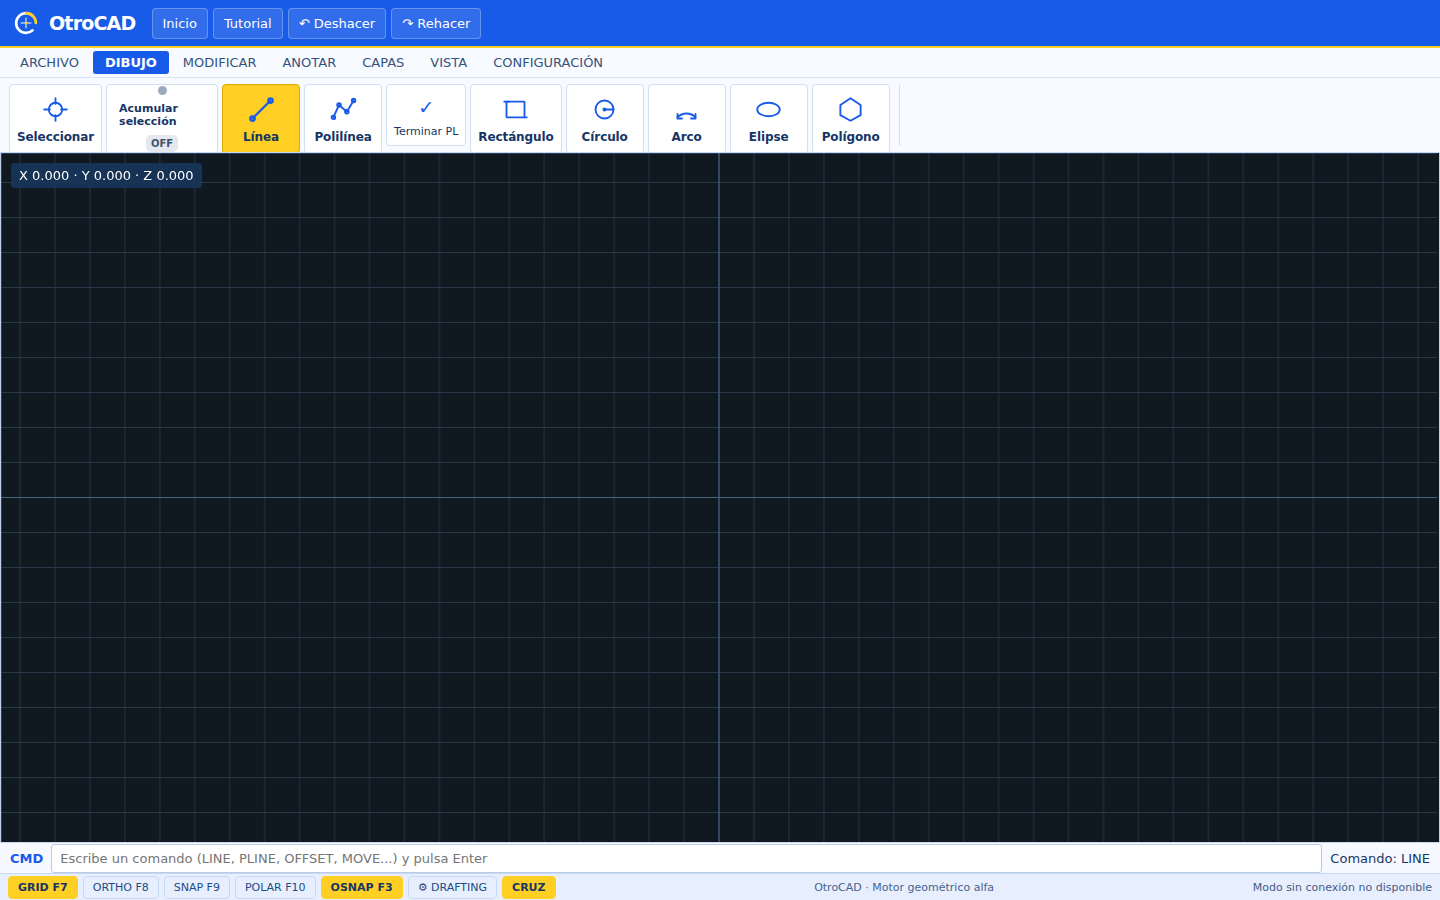
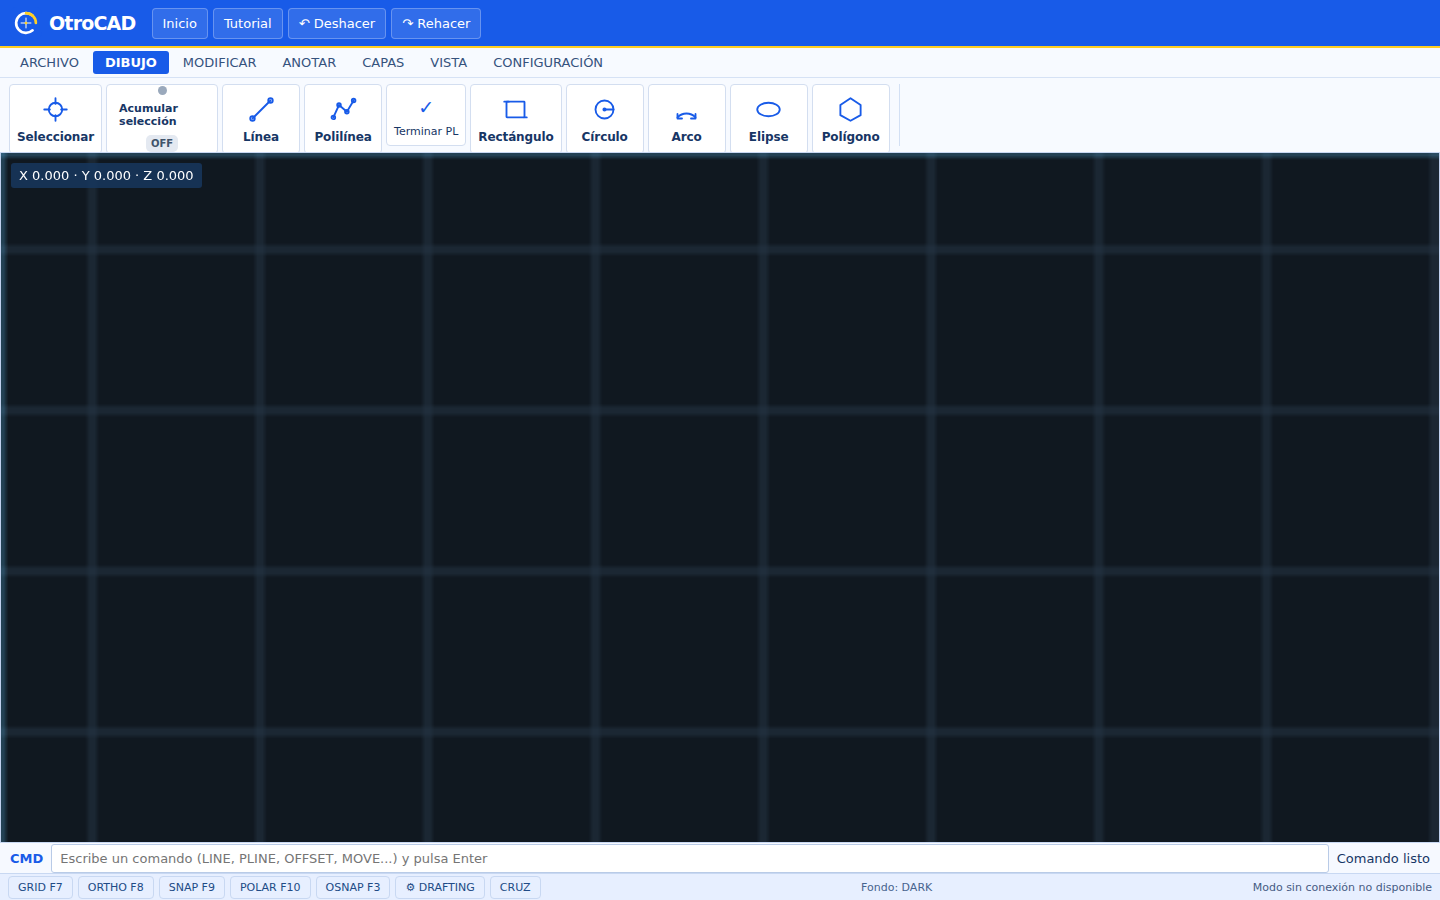
deploy: 45bcfa43d3ae5d351a2cea21db750d4c6ed4a11f

diff --git a/editor/index.html b/editor/index.html
@@ -102,7 +102,7 @@ button:focus-visible,input:focus-visible,select:focus-visible{outline:2px solid 
 #otrocad-context-menu .cad-menu-item.primary{background:#344b66;color:#ffda55;font-weight:700}
 @media(max-width:760px){#filebar button[onclick*="../index.html"]{display:none!important}}
 @media(display-mode:standalone){#filebar button[onclick*="../index.html"]{display:none!important}}
- .toolgroup button .ico svg{width:23px;height:23px;stroke-width:1.85;filter:drop-shadow(0 1px 1px #18375a18)}.toolgroup button{border-radius:7px;transition:background .16s,border-color .16s,transform .16s}.toolgroup button:hover{transform:translateY(-1px)}.toolgroup button .ico{display:grid;place-items:center;width:27px;height:27px;border-radius:7px;background:#eaf2ff}.cad-option{align-self:center;display:flex;flex-direction:column;gap:4px;font-size:10px;font-weight:700;color:#46658c}.cad-option select,.cad-option input{padding:6px;border:1px solid #b9cbe7;border-radius:6px;background:white;color:#173665} </style></head><body>
+</style></head><body>
 <header><span id="brand"><svg class="brandmark" viewBox="0 0 512 512" aria-hidden="true"><rect width="512" height="512" rx="104" fill="#185BE8"/><circle cx="256" cy="256" r="158" fill="none" stroke="#FFFFFF" stroke-width="42" stroke-dasharray="720 275" stroke-linecap="round" transform="rotate(48 256 256)"/><path d="M256 98a158 158 0 0 1 158 158" fill="none" stroke="#FFCF23" stroke-width="42" stroke-linecap="round"/><path d="M256 177v158M177 256h158" stroke="#FFFFFF" stroke-width="16" stroke-linecap="round"/><circle cx="256" cy="256" r="22" fill="#FFCF23"/></svg><span><span class="o">O</span><span class="cad">troCAD</span></span></span><div id="filebar"><button onclick="location.href='../index.html'">Inicio</button><button onclick="location.href='../tutorial/'">Tutorial</button><button id="undo" title="Deshacer · Ctrl+Z">↶ Deshacer</button><button id="redo" title="Rehacer · Ctrl+Y">↷ Rehacer</button></div></header>
 <section id="ribbon"><nav id="tabs" aria-label="Herramientas CAD"><button data-tab="file">ARCHIVO</button><button class="active" data-tab="draw" aria-selected="true">DIBUJO</button><button data-tab="modify">MODIFICAR</button><button data-tab="annotate">ANOTAR</button><button data-tab="layers">CAPAS</button><button data-tab="view">VISTA</button><button data-tab="settings">CONFIGURACIÓN</button></nav><div id="groups">
 <div class="toolgroup" data-panel="file" hidden><span class="group-title">PROYECTO</span>
@@ -120,9 +120,9 @@ button:focus-visible,input:focus-visible,select:focus-visible{outline:2px solid 
 </div>
 <div class="toolgroup" data-panel="draw"><button data-tool="select"><span class="ico"><svg viewBox="0 0 24 24" fill="none" stroke="currentColor" stroke-width="1.65" stroke-linecap="round" stroke-linejoin="round" aria-hidden="true"><circle cx="12" cy="12" r="6"/><path d="M12 2v5m0 10v5M2 12h5m10 0h5"/></svg></span>Seleccionar</button><button id="multiSelectToggle" aria-pressed="false" title="Mantener selección al elegir más objetos; el arrastre de ventana selecciona varios sin activar esta opción"><span class="multi-dot"></span><span class="multi-label">Acumular selección</span><span class="multi-state">OFF</span></button><button data-tool="line"><span class="ico"><svg viewBox="0 0 24 24" fill="none" stroke="currentColor" stroke-width="1.65" stroke-linecap="round" stroke-linejoin="round" aria-hidden="true"><path d="M4 20 20 4"/><circle cx="4" cy="20" r="2"/><circle cx="20" cy="4" r="2"/></svg></span>Línea</button><button data-tool="poly"><span class="ico"><svg viewBox="0 0 24 24" fill="none" stroke="currentColor" stroke-width="1.65" stroke-linecap="round" stroke-linejoin="round" aria-hidden="true"><path d="m3 19 5-11 7 6 6-10"/><circle cx="3" cy="19" r="1.6"/><circle cx="8" cy="8" r="1.6"/><circle cx="15" cy="14" r="1.6"/><circle cx="21" cy="4" r="1.6"/></svg></span>Polilínea</button><button id="finish-poly"><span class="ico">✓</span>Terminar PL</button><button data-tool="rect"><span class="ico"><svg viewBox="0 0 24 24" fill="none" stroke="currentColor" stroke-width="1.65" stroke-linecap="round" stroke-linejoin="round" aria-hidden="true"><rect x="4" y="5" width="16" height="14" rx="0.5"/><path d="M2 5h4m14 14h2"/></svg></span>Rectángulo</button><button data-tool="circle"><span class="ico"><svg viewBox="0 0 24 24" fill="none" stroke="currentColor" stroke-width="1.65" stroke-linecap="round" stroke-linejoin="round" aria-hidden="true"><circle cx="12" cy="12" r="8"/><path d="M12 12h8"/><circle cx="12" cy="12" r="1"/></svg></span>Círculo</button><button data-tool="arc"><span class="ico"><svg viewBox="0 0 24 24" fill="none" stroke="currentColor" stroke-width="1.65" stroke-linecap="round" stroke-linejoin="round" aria-hidden="true"><path d="M4 19a11 11 0 0 1 16 0"/><path d="M4 16v4h4m8 0h4v-4"/></svg></span>Arco</button><button data-tool="ellipse"><span class="ico"><svg viewBox="0 0 24 24" fill="none" stroke="currentColor" stroke-width="1.65" stroke-linecap="round" stroke-linejoin="round" aria-hidden="true"><ellipse cx="12" cy="12" rx="10" ry="6"/></svg></span>Elipse</button><button data-tool="polygon"><span class="ico"><svg viewBox="0 0 24 24" fill="none" stroke="currentColor" stroke-width="1.65" stroke-linecap="round" stroke-linejoin="round" aria-hidden="true"><path d="m12 2 9 6v9l-9 5-9-5V8z"/></svg></span>Polígono</button></div>
 <div class="toolgroup" data-panel="modify" hidden><button data-tool="move"><span class="ico"><svg viewBox="0 0 24 24" fill="none" stroke="currentColor" stroke-width="1.65" stroke-linecap="round" stroke-linejoin="round" aria-hidden="true"><path d="M12 2v20M2 12h20m-10-10-3 3m3-3 3 3m-3 17-3-3m3 3 3-3M2 12l3-3m-3 3 3 3m17-3-3-3m3 3-3 3"/></svg></span>Mover</button><button data-tool="copy"><span class="ico"><svg viewBox="0 0 24 24" fill="none" stroke="currentColor" stroke-width="1.65" stroke-linecap="round" stroke-linejoin="round" aria-hidden="true"><rect x="8" y="8" width="12" height="12" rx="1"/><path d="M16 8V4H4v12h4"/></svg></span>Copiar</button><button data-tool="offset"><span class="ico"><svg viewBox="0 0 24 24" fill="none" stroke="currentColor" stroke-width="1.65" stroke-linecap="round" stroke-linejoin="round" aria-hidden="true"><path d="m4 18 11-11m-5 14L21 10"/><path d="M16 4h5v5"/></svg></span>Offset</button><button data-tool="rotate"><span class="ico"><svg viewBox="0 0 24 24" fill="none" stroke="currentColor" stroke-width="1.65" stroke-linecap="round" stroke-linejoin="round" aria-hidden="true"><path d="M4 10a8 8 0 1 1 1 7"/><path d="M4 3v7h7"/></svg></span>Rotar</button><button data-tool="mirror"><span class="ico"><svg viewBox="0 0 24 24" fill="none" stroke="currentColor" stroke-width="1.65" stroke-linecap="round" stroke-linejoin="round" aria-hidden="true"><path d="M12 2v20" stroke-dasharray="2 2"/><path d="m9 6-6 6 6 6m6-12 6 6-6 6"/></svg></span>Simetría</button><button data-tool="scale"><span class="ico"><svg viewBox="0 0 24 24" fill="none" stroke="currentColor" stroke-width="1.65" stroke-linecap="round" stroke-linejoin="round" aria-hidden="true"><path d="M4 20 20 4m-9 0h9v9"/><rect x="3" y="13" width="8" height="8"/></svg></span>Escalar</button><button data-tool="trim"><span class="ico"><svg viewBox="0 0 24 24" fill="none" stroke="currentColor" stroke-width="1.65" stroke-linecap="round" stroke-linejoin="round" aria-hidden="true"><path d="M4 5 20 19M4 19 20 5"/><circle cx="8" cy="9" r="2"/><circle cx="16" cy="9" r="2"/></svg></span>Recortar</button><button data-tool="extend"><span class="ico"><svg viewBox="0 0 24 24" fill="none" stroke="currentColor" stroke-width="1.65" stroke-linecap="round" stroke-linejoin="round" aria-hidden="true"><path d="M3 19 15 7m-3 0h9M15 2v10" stroke-dasharray="3 2"/></svg></span>Alargar</button><button data-tool="fillet"><span class="ico"><svg viewBox="0 0 24 24" fill="none" stroke="currentColor" stroke-width="1.65" stroke-linecap="round" stroke-linejoin="round" aria-hidden="true"><path d="M4 20V10a6 6 0 0 1 6-6h10"/></svg></span>Empalme</button><button data-tool="explode"><span class="ico"><svg viewBox="0 0 24 24" fill="none" stroke="currentColor" stroke-width="1.65" stroke-linecap="round" stroke-linejoin="round" aria-hidden="true"><path d="m12 2 2 7 7-2-5 5 5 5-7-2-2 7-2-7-7 2 5-5-5-5 7 2z"/></svg></span>Explotar</button><button id="erase" title="Eliminar objetos seleccionados"><span class="ico"><svg viewBox="0 0 24 24" fill="none" stroke="currentColor" stroke-width="1.8" stroke-linecap="round" stroke-linejoin="round"><path d="M3 6h18M8 6V4h8v2m3 0-1 14H6L5 6m4 4v6m6-6v6"/></svg></span>Eliminar</button><button id="propertiesBtn" title="Mostrar propiedades"><span class="ico"><svg viewBox="0 0 24 24" fill="none" stroke="currentColor" stroke-width="1.8" stroke-linecap="round" stroke-linejoin="round"><path d="M4 6h16M4 12h16M4 18h16"/><circle cx="9" cy="6" r="2" fill="#fff"/><circle cx="15" cy="12" r="2" fill="#fff"/><circle cx="8" cy="18" r="2" fill="#fff"/></svg></span>Propiedades</button></div>
-<div class="toolgroup" data-panel="annotate" hidden><button data-tool="dim"><span class="ico"><svg viewBox="0 0 24 24" fill="none" stroke="currentColor" stroke-width="1.65" stroke-linecap="round" stroke-linejoin="round" aria-hidden="true"><path d="M3 5v14m18-14v14M5 12h14m-14 0 3-3m-3 3 3 3m11-3-3-3m3 3-3 3"/></svg></span>Cota lineal</button><button data-tool="text"><span class="ico"><svg viewBox="0 0 24 24" fill="none" stroke="currentColor" stroke-width="1.65" stroke-linecap="round" stroke-linejoin="round" aria-hidden="true"><path d="M4 6V4h16v2M12 4v16m-5 0h10"/></svg></span>Texto</button><button data-tool="hatch"><span class="ico"><svg viewBox="0 0 24 24" fill="none" stroke="currentColor" stroke-width="1.65" stroke-linecap="round" stroke-linejoin="round" aria-hidden="true"><rect x="3" y="3" width="18" height="18"/><path d="m3 12 9-9m-9 17L20 3M10 21 21 10"/></svg></span>Hatch</button><button data-tool="dimaligned"><span class="ico">↗</span>Cota alineada</button><label class="cad-option">HATCH <select id="hatchPattern"><option value="ANSI31">ANSI31</option><option value="CROSS">Cross</option><option value="GRID">Grid</option><option value="SOLID">Solid</option></select></label><label class="cad-option">Paso <input id="hatchSpacing" type="number" value="10" min="5" max="60" style="width:55px"></label><button data-tool="leader"><span class="ico"><svg viewBox="0 0 24 24" fill="none" stroke="currentColor" stroke-width="1.65" stroke-linecap="round" stroke-linejoin="round" aria-hidden="true"><path d="m3 21 7-7h10V4"/><path d="m3 21 2-6 4 4z"/></svg></span>Directriz</button></div>
+<div class="toolgroup" data-panel="annotate" hidden><button data-tool="dim"><span class="ico"><svg viewBox="0 0 24 24" fill="none" stroke="currentColor" stroke-width="1.65" stroke-linecap="round" stroke-linejoin="round" aria-hidden="true"><path d="M3 5v14m18-14v14M5 12h14m-14 0 3-3m-3 3 3 3m11-3-3-3m3 3-3 3"/></svg></span>Cota lineal</button><button data-tool="text"><span class="ico"><svg viewBox="0 0 24 24" fill="none" stroke="currentColor" stroke-width="1.65" stroke-linecap="round" stroke-linejoin="round" aria-hidden="true"><path d="M4 6V4h16v2M12 4v16m-5 0h10"/></svg></span>Texto</button><button data-tool="hatch"><span class="ico"><svg viewBox="0 0 24 24" fill="none" stroke="currentColor" stroke-width="1.65" stroke-linecap="round" stroke-linejoin="round" aria-hidden="true"><rect x="3" y="3" width="18" height="18"/><path d="m3 12 9-9m-9 17L20 3M10 21 21 10"/></svg></span>Hatch</button><button data-tool="leader"><span class="ico"><svg viewBox="0 0 24 24" fill="none" stroke="currentColor" stroke-width="1.65" stroke-linecap="round" stroke-linejoin="round" aria-hidden="true"><path d="m3 21 7-7h10V4"/><path d="m3 21 2-6 4 4z"/></svg></span>Directriz</button></div>
 <div class="toolgroup" data-panel="layers" hidden><label style="align-self:center;color:#a9bfd2">CAPA</label><select id="layer"><option>General</option><option>Muros</option><option>Cotas</option><option>Detalles</option><option>Topografía</option><option>Vialidad</option></select><button id="newLayer">+ Capa</button><button id="layerColor">Color capa</button><button id="layerVisibility">Ocultar capa</button><button id="layerLock">Bloquear capa</button><label style="align-self:center;color:#a9bfd2">COLOR</label><input id="drawColor" type="color" value="#dce8f5"><label style="align-self:center;color:#a9bfd2">GROSOR</label><select id="lineweight"><option value="0.13">0.13 mm</option><option value="0.18">0.18 mm</option><option value="0.25" selected>0.25 mm</option><option value="0.35">0.35 mm</option><option value="0.50">0.50 mm</option><option value="0.70">0.70 mm</option><option value="1.00">1.00 mm</option></select><label style="align-self:center;color:#a9bfd2">TIPO</label><select id="linetype"><option value="CONTINUOUS">Continua</option><option value="DASHED">Discontinua</option></select></div>
-<div class="toolgroup" data-panel="view" hidden><label class="cad-option">FONDO <select id="canvasTheme"><option value="black">Black</option><option value="dark">Dark</option><option value="graphite">Graphite</option><option value="slate">Slate</option><option value="bluegray">Blue Gray</option></select></label><button id="zoomIn">＋ Zoom</button><button id="zoomOut">－ Zoom</button><button id="fit">Extensión</button><button data-tool="pan"><span class="ico">✥</span>Encuadre</button></div>
+<div class="toolgroup" data-panel="view" hidden><button id="zoomIn">＋ Zoom</button><button id="zoomOut">－ Zoom</button><button id="fit">Extensión</button><button data-tool="pan"><span class="ico">✥</span>Encuadre</button></div>
 <div class="toolgroup" data-panel="settings" hidden><button id="settingsBtn">⚙ Drafting Settings · HP</button><button id="unitsBtn">Unidades</button><button id="snapBtn">OSNAP · Referencias</button></div>
 </div></section>
 <main id="workspace"><div id="stage"><canvas id="cad"></canvas><div id="crossinfo">X 0.000 · Y 0.000 · Z 0.000</div><div id="dynamic"><label>LONGITUD</label><input id="dynLen" inputmode="decimal" placeholder="0.00"><label>ÁNGULO</label><input id="dynAngle" inputmode="decimal" placeholder="0°"><button id="acceptPoint">✓</button></div></div><aside id="properties"><h3>PROPIEDADES DEL OBJETO</h3><div id="propContent">Selecciona una entidad para editar sus propiedades.</div></aside></main>

diff --git a/sw.js b/sw.js
@@ -1,4 +1,4 @@
-const CACHE='otrocad-pc-offline-43';
+const CACHE='otrocad-pc-offline-42';
 const ASSETS=['./','./index.html','./editor/','./editor/index.html','./editor/editor.js','./tutorial/','./tutorial/index.html','./descargas/','./descargas/index.html','./herramientas/','./herramientas/index.html','./manifest.webmanifest','./icon.svg','./editor-preview.png'];
 self.addEventListener('install',event=>event.waitUntil(caches.open(CACHE).then(cache=>cache.addAll(ASSETS)).then(()=>self.skipWaiting())));
 self.addEventListener('activate',event=>event.waitUntil(caches.keys().then(keys=>Promise.all(keys.filter(key=>key.startsWith('otrocad-')&&key!==CACHE).map(key=>caches.delete(key)))).then(()=>self.clients.claim())));
